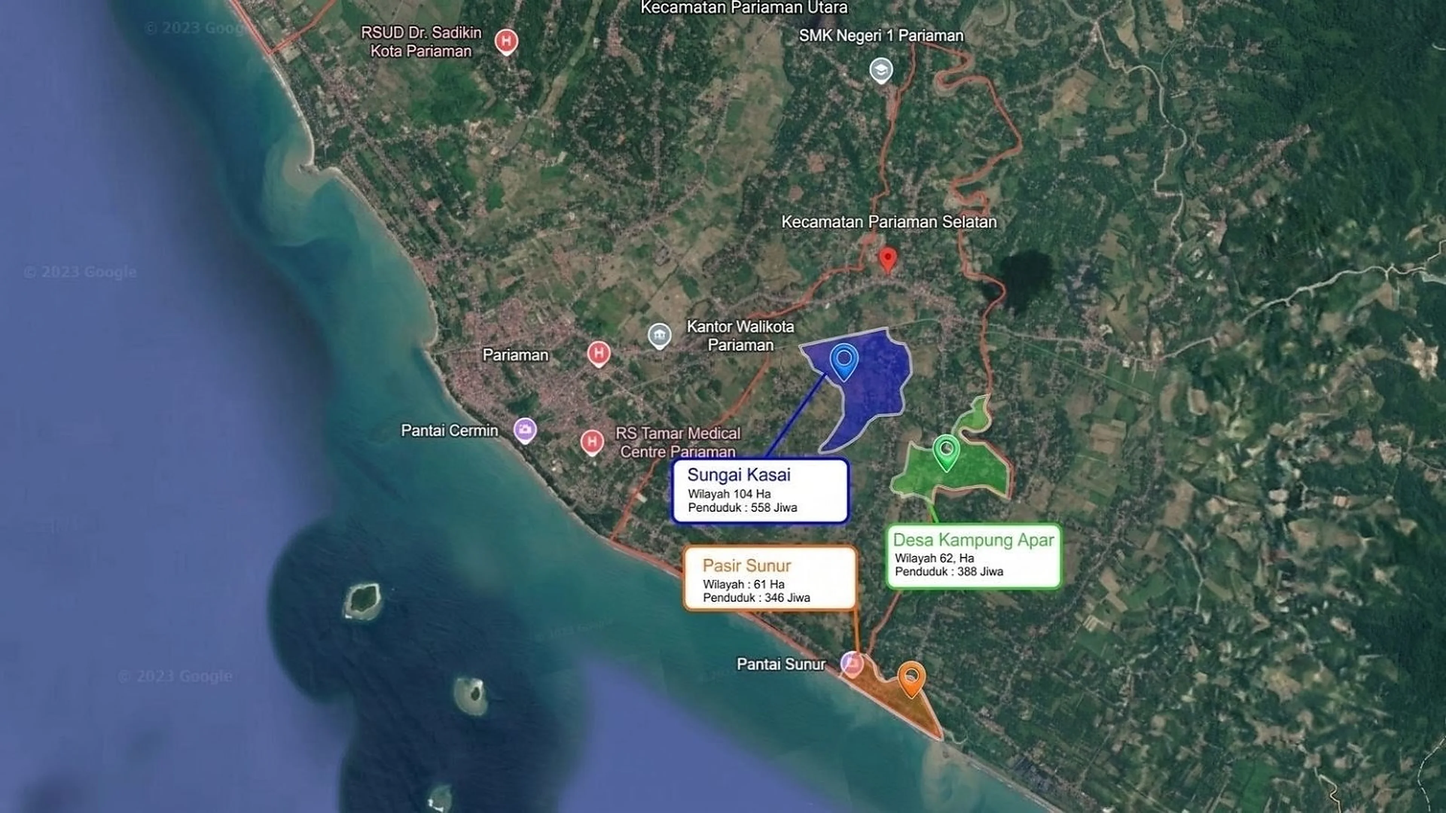
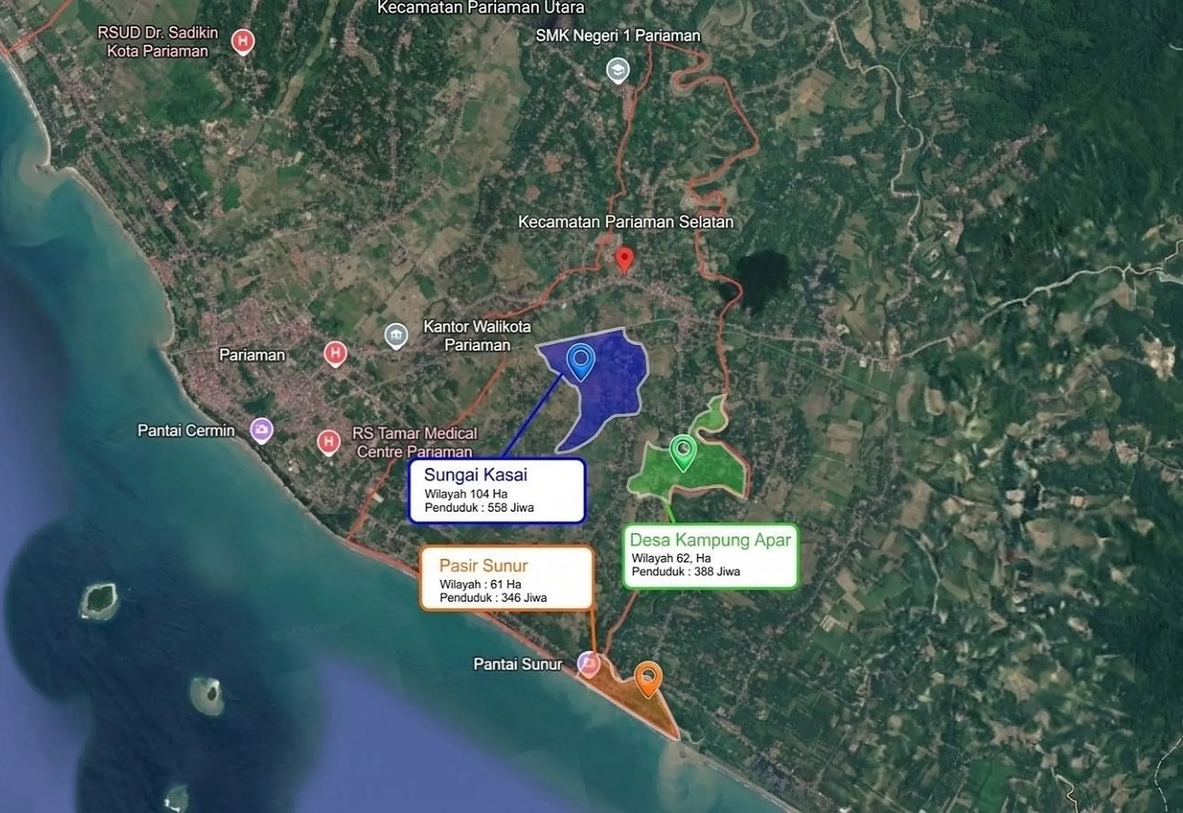
fix(hero): tighten map crop and shift right so pins stay visible at narrower widths

diff --git a/resources/views/public/partials/hero.blade.php b/resources/views/public/partials/hero.blade.php
@@ -7,7 +7,7 @@
 
     {{-- 1. Background Map Layer (Desktop Only) --}}
     <div class="absolute inset-0 w-full h-full z-0 hidden lg:block bg-gradient-to-br from-navy-700 via-navy-500 to-navy-600">
-        <img src="{{ $mapBackgroundImage }}" class="w-full h-full object-contain object-right" alt="Peta Kota Pariaman">
+        <img src="{{ $mapBackgroundImage }}" class="w-full h-full object-contain object-right translate-x-[10%]" alt="Peta Kota Pariaman">
     </div>
 
     {{-- 2. Blue Shape Layer (Desktop Only) --}}
